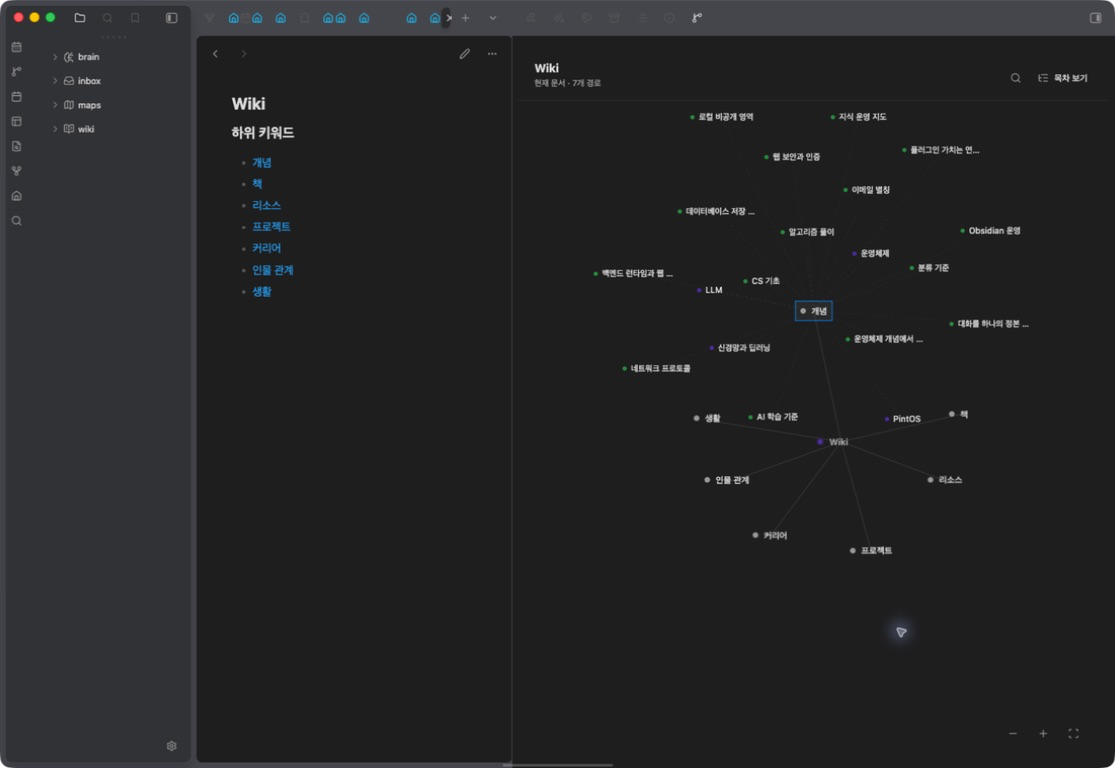
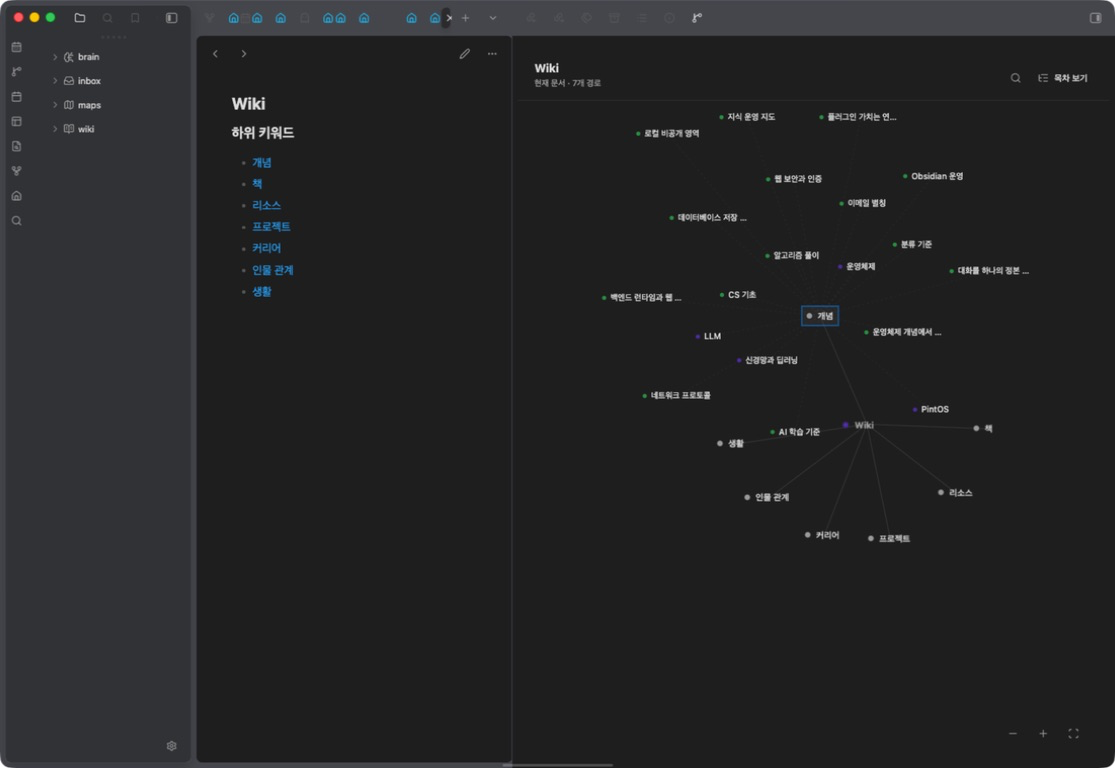
docs: capture Linked Graph 1.3.4 runtime

diff --git a/docs/design-qa.md b/docs/design-qa.md
@@ -8,7 +8,7 @@
 
 ## Compared reference
 
-The two user-supplied captures (792×808 and 379×269) and the final 1115×768 Obsidian runtime were placed side by side locally. The references exposed three remaining faults: the graph did not use the full leaf body, static category captions floated behind moving nodes, and hover painted the route as a card instead of preserving Obsidian's dot-and-label graph grammar.
+The user-supplied captures, including the latest 938×508 edge-and-outline report, and the final 1115×768 Obsidian runtime were placed side by side locally. The latest comparison verified that persistent edges are visibly stronger and the resting `Wiki` centre has no rectangular outline, while retaining Obsidian's dot-and-label graph grammar.
 
 The final implementation was captured in Obsidian 1.13.7 with `wiki/README.md` active and the Linked Graph leaf widened. The first capture shows the resting 1-hop graph. The second keyboard-focus capture exercises the same next-hop preview path used by pointer hover, while keeping the keyboard focus ring supplied by Obsidian. The local-only side-by-side comparison is stored outside release media.
 
